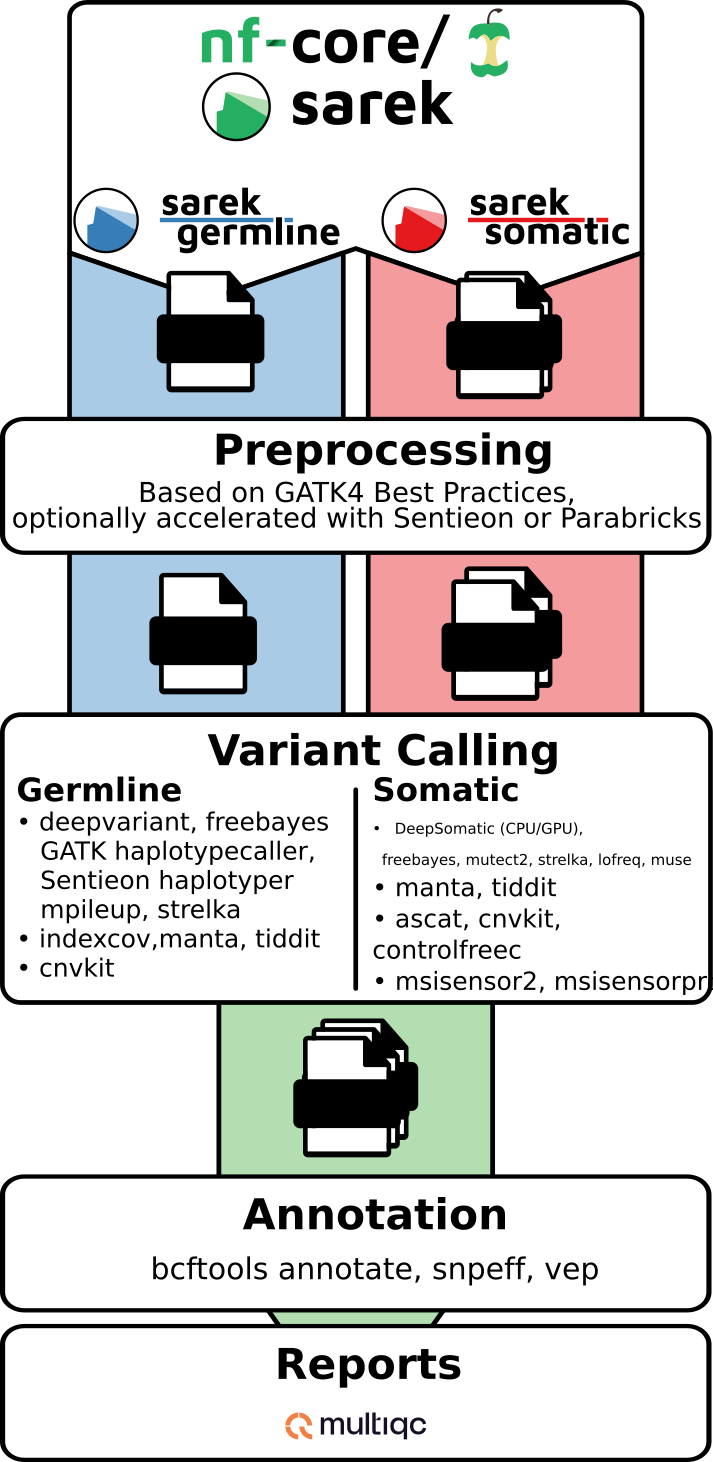
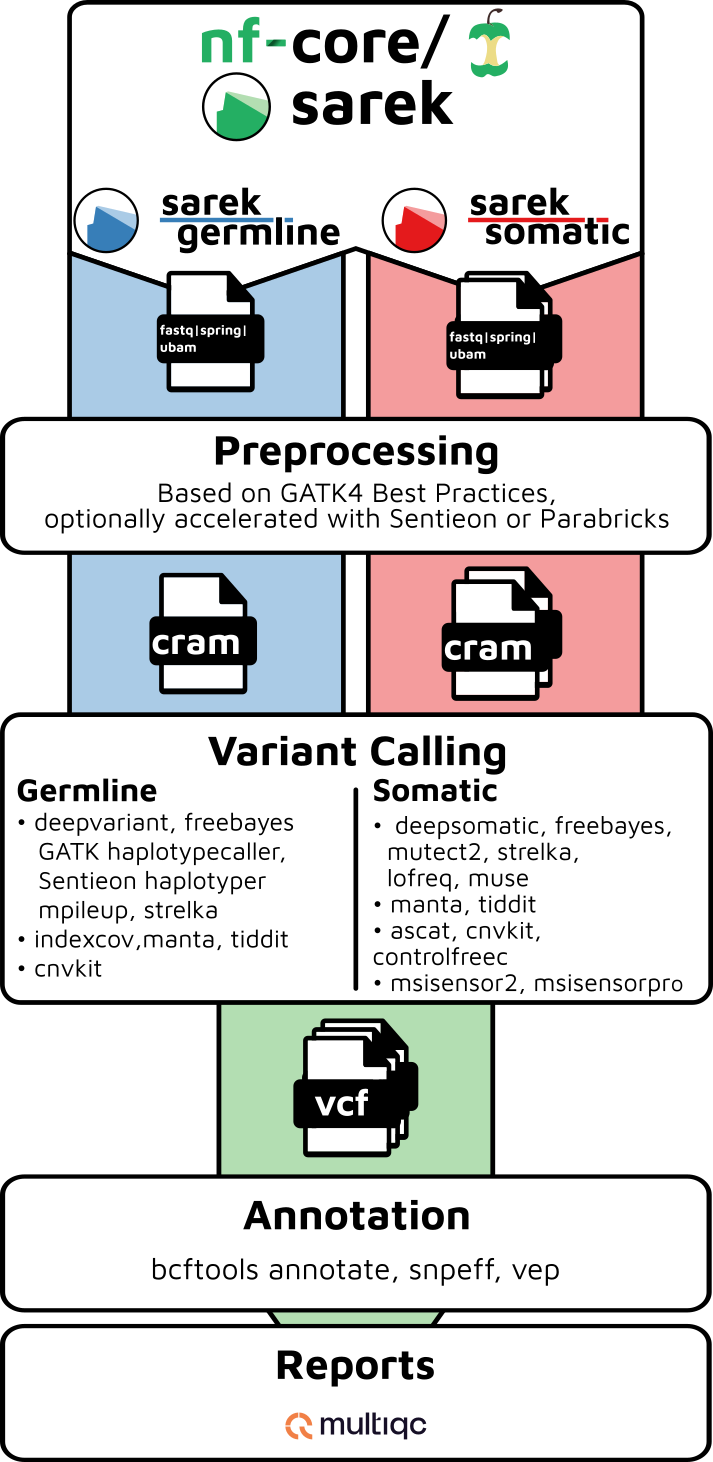
Address DeepSomatic review feedback (#2293)
Combine the CPU and GPU DeepSomatic metro stations into one aligned blue station. Simplify output documentation and remove redundant module output overrides. Restore workflow image labels and consistent font sizes.

Generated by Codex

diff --git a/docs/output.md b/docs/output.md
@@ -415,19 +415,7 @@ For further reading and documentation see the [bcftools manual](https://samtools
 
 #### DeepSomatic
 
-[DeepSomatic](https://github.com/google/deepsomatic) uses a deep neural network to identify somatic SNVs and small indels. Sarek supports paired short-read tumour-normal WGS and WES calling. The CPU implementation scatters work across intervals and gathers one raw VCF for each pair.
-
-DeepSomatic obtains sample names from the input CRAM read-group `SM` values. CRAM files produced by Sarek normally use `${patient}_${sample}` for `SM`.
-
-DeepSomatic uses the following FILTER classifications in raw VCF files:
-
-- `PASS`: All filters passed and the call is somatic.
-- `GERMLINE`: The call is non-somatic.
-- `RefCall`: The genotyping model considers the site reference.
-- `LowQual`: Confidence in the call is below the calling threshold.
-- `NoCall`: The site has zero depth and could not be called.
-
-Sarek preserves these classifications. The optional general VCF filtering workflow applies the configured filtering criteria. It does not introduce a mandatory DeepSomatic-specific PASS filter.
+[DeepSomatic](https://github.com/google/deepsomatic) is a deep learning-based caller for somatic SNVs and small indels in paired tumour-normal samples.
 
 <details markdown="1">
 <summary>Output files for tumour-normal pairs</summary>
@@ -435,9 +423,7 @@ Sarek preserves these classifications. The optional general VCF filtering workfl
 **Output directory: `{outdir}/variant_calling/deepsomatic/<tumoursample_vs_normalsample>/`**
 
 - `<tumoursample_vs_normalsample>.deepsomatic.vcf.gz` and `<tumoursample_vs_normalsample>.deepsomatic.vcf.gz.tbi`
-  - Raw VCF with tabix index
-
-DeepSomatic gVCF files are not published.
+  - VCF with tabix index
 
 </details>
 
@@ -587,9 +573,7 @@ Files created:
 
 #### Parabricks DeepSomatic
 
-[Parabricks DeepSomatic](https://docs.nvidia.com/clara/parabricks/latest/documentation/tooldocs/man_deepsomatic.html) is the GPU-accelerated implementation of DeepSomatic. Sarek supports paired short-read tumour-normal WGS and WES calling. It runs one GPU task for each pair and publishes an ordinary raw VCF and its index.
-
-Sample names and FILTER classifications follow the DeepSomatic behaviour described in the [DeepSomatic section](#deepsomatic).
+[Parabricks DeepSomatic](https://docs.nvidia.com/clara/parabricks/latest/documentation/tooldocs/man_deepsomatic.html) is a GPU-accelerated implementation of DeepSomatic for somatic SNVs and small indels in paired tumour-normal samples.
 
 <details markdown="1">
 <summary>Output files for tumour-normal pairs</summary>
@@ -597,9 +581,7 @@ Sample names and FILTER classifications follow the DeepSomatic behaviour describ
 **Output directory: `{outdir}/variant_calling/parabricks_deepsomatic/<tumoursample_vs_normalsample>/`**
 
 - `<tumoursample_vs_normalsample>.parabricks_deepsomatic.vcf.gz` and `<tumoursample_vs_normalsample>.parabricks_deepsomatic.vcf.gz.tbi`
-  - Raw VCF with tabix index
-
-DeepSomatic gVCF files are not published.
+  - VCF with tabix index
 
 </details>
 
